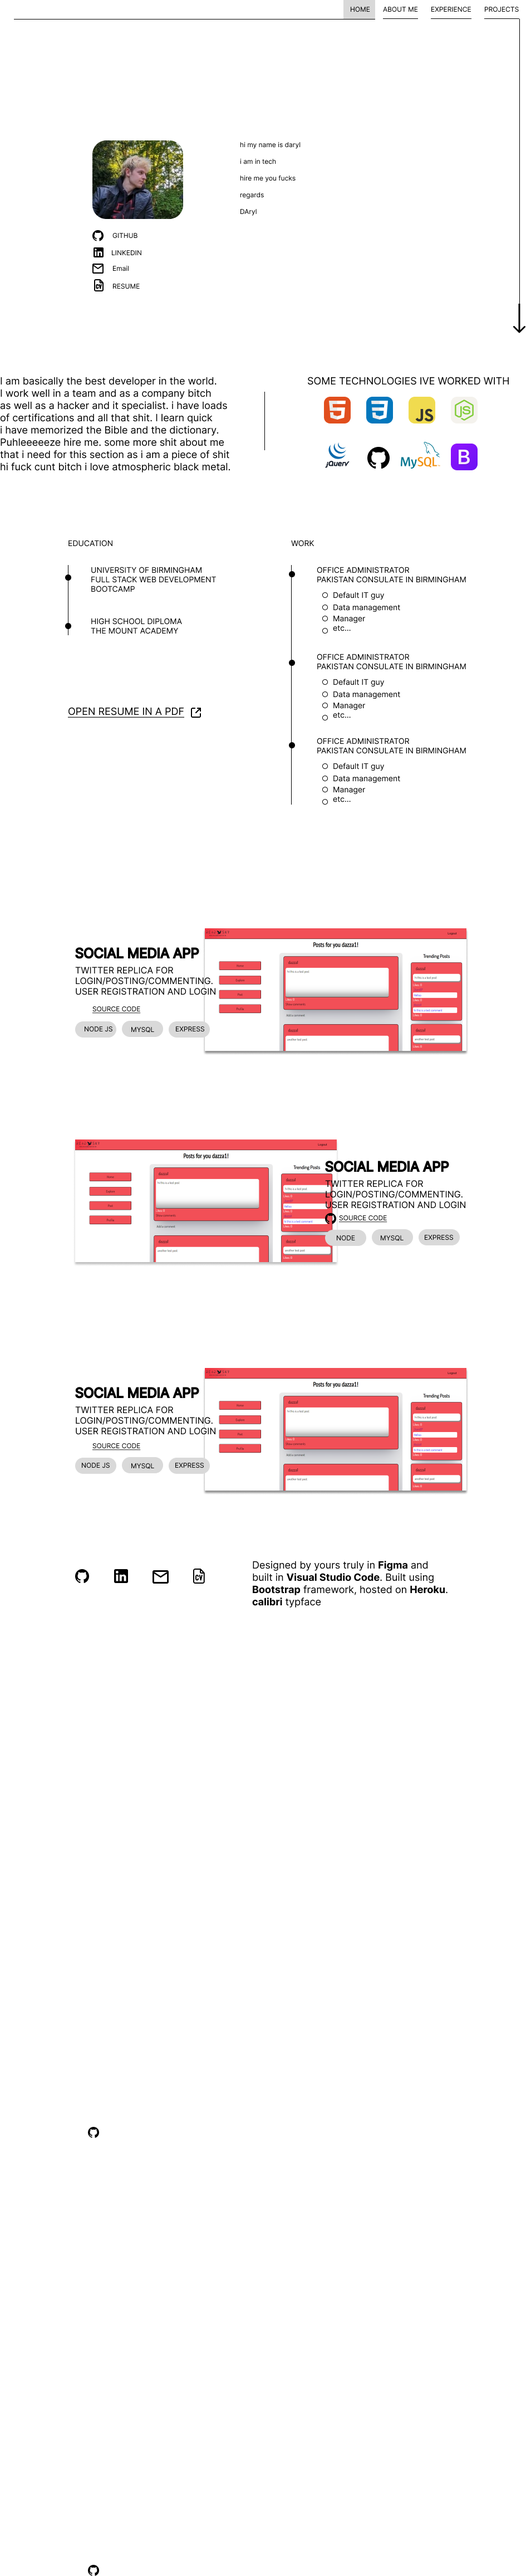
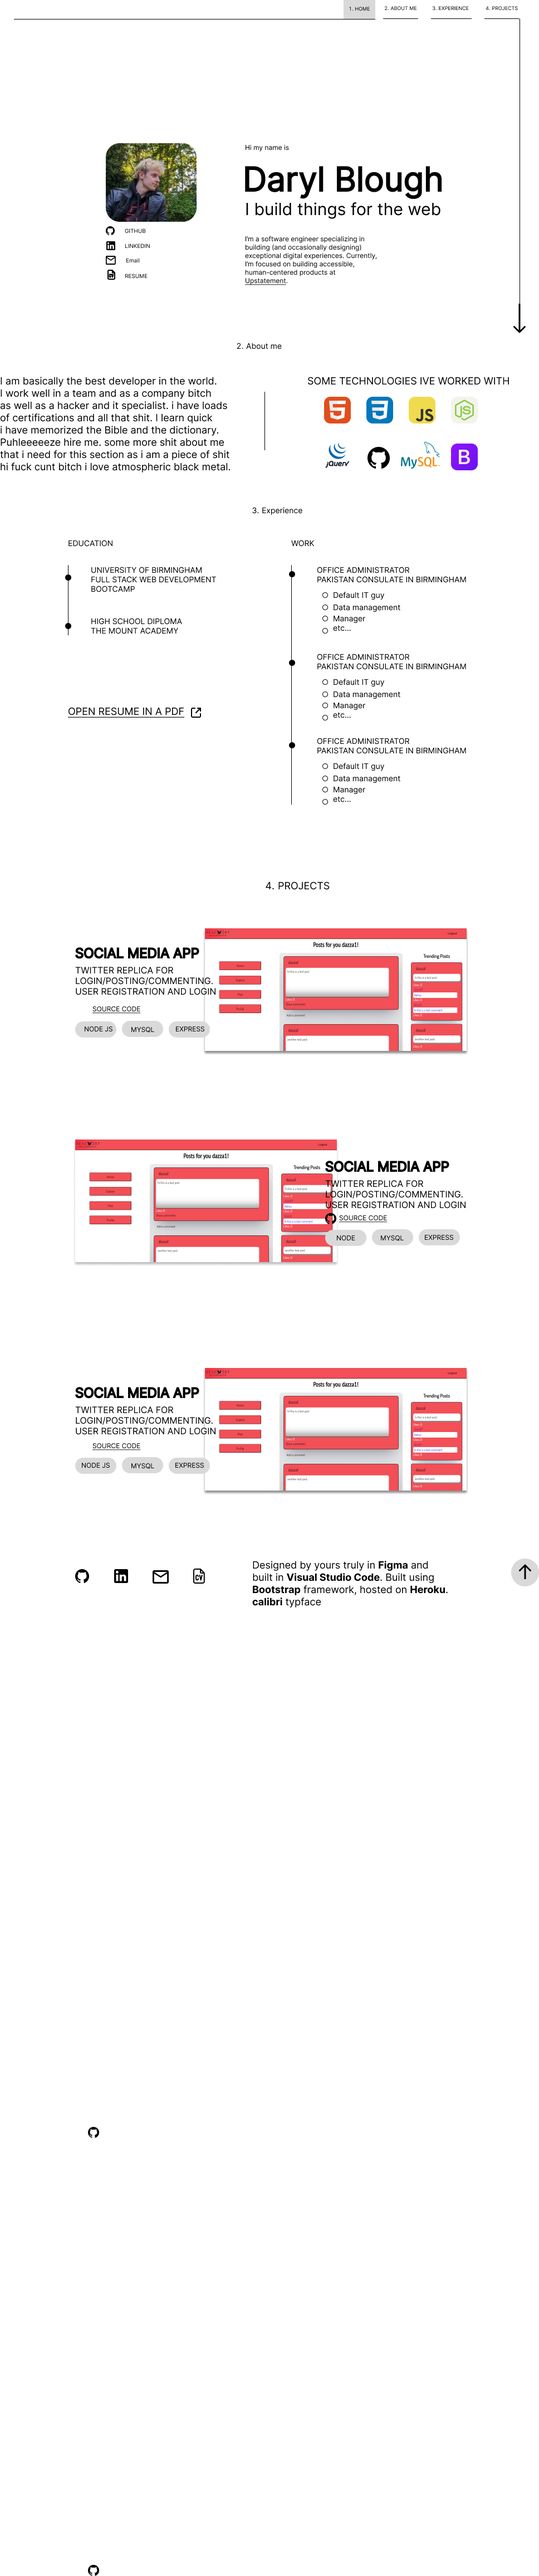
added html layout with bootstrap

diff --git a/index.html b/index.html
@@ -5,10 +5,165 @@
     <meta http-equiv="X-UA-Compatible" content="IE=edge">
     <meta name="viewport" content="width=device-width, initial-scale=1.0">
     <link rel="stylesheet" href="assets/css/style.css">
+    <link href="https://cdn.jsdelivr.net/npm/bootstrap@5.3.0-alpha3/dist/css/bootstrap.min.css" rel="stylesheet" integrity="sha384-KK94CHFLLe+nY2dmCWGMq91rCGa5gtU4mk92HdvYe+M/SXH301p5ILy+dN9+nJOZ" crossorigin="anonymous">
+    <link rel="stylesheet" href="https://cdnjs.cloudflare.com/ajax/libs/font-awesome/4.7.0/css/font-awesome.min.css">
     <title>Document</title>
 </head>
 <body>
-    <p>hello world</p>
+    <nav class="navbar navbar-expand-lg bg-body-tertiary">
+        <div class="container-fluid">
+          <a class="navbar-brand" href="#">Daryl</a>
+          <button class="navbar-toggler" type="button" data-bs-toggle="collapse" data-bs-target="#navbarSupportedContent" aria-controls="navbarSupportedContent" aria-expanded="false" aria-label="Toggle navigation">
+            <span class="navbar-toggler-icon"></span>
+          </button>
+          <div class="collapse navbar-collapse" id="navbarSupportedContent">
+            <ul class="navbar-nav ms-auto mb-2 mb-lg-0">
+              <li class="nav-item">
+                <a class="nav-link" href="#">01. Home</a>
+              </li>
+              <li class="nav-item">
+                <a class="nav-link" href="#">02. About</a>
+              </li>
+              <li class="nav-item">
+                <a class="nav-link" href="#">03. Experience</a>
+              </li>
+              <li class="nav-item">
+                <a class="nav-link" href="#">04. Projects</a>
+              </li>
+            </ul>
+          </div>
+        </div>
+      </nav>
+      <div class="container">
+        <div class="row home">
+            <div class="col-sm-12 col-md-5 home-1">
+                <div class="home-image">
+                    <img src="assets/images/profile.jpeg" alt="">
+                </div>
+                <ul class="home-icons-ul list-group">
+                    <a class="list-group-item" href=""><i class="fa fa-github" aria-hidden="true"></i>Github</a>
+                    <a class="list-group-item" href=""><i class="fa fa-linkedin-square" aria-hidden="true"></i>Linkedin</a>
+                    <a class="list-group-item" href=""><i class="fa fa-envelope" aria-hidden="true"></i>Email</a>
+                    <a class="list-group-item" href=""><i class="fa fa-file-text" aria-hidden="true"></i>Resume</a>
+                </ul>
+            </div>
+            <div class="col-sm-12 col-md-7 home-2">
+                <h6>Hi my name is</h6>
+                <h1>Daryl Blough</h1>
+                <h3>I build stuff for the web</h3>
+                <h6>
+                    I’m a software engineer specializing in building 
+                    (and occasionally designing) exceptional digital 
+                    experiences. Currently, I’m focused on building 
+                    accessible, human-centered products at Upstatement.
+                </h6>
+            </div>
+        </div>
+        <div class="row">
+            <div class="col-12 text-center">
+                <h3>02. About</h3>
+            </div>
+            <div class="col-12 col-md-6">
+                <p>
+                    I am basically the best developer in the world.
+                    I work well in a team and as a company bitch
+                    as well as a hacker and it specialist. i have loads 
+                    of certifications and all that shit. I learn quick
+                    i have memorized the Bible and the dictionary.
+                    Puhleeeeeze hire me. some more shit about me
+                    that i need for this section as i am a piece of shit 
+                    hi fuck cunt bitch i love atmospheric black metal.
+                </p>
+            </div>
+            <div class="col-12 col-md-6">
+                <div class="row text-center">
+                    <h5>Some technologies I am familiar with</h5>
+                </div>
+                <div class="row text-center">
+                    <div class="col-3">js</div>
+                    <div class="col-3">css</div>
+                    <div class="col-3">node</div>
+                    <div class="col-3">mysql</div>
+                </div>
+                <div class="row text-center">
+                    <div class="col-3">bootstrap</div>
+                    <div class="col-3">jquery</div>
+                    <div class="col-3">github</div>
+                    <div class="col-3">html</div>
+                </div>
+            </div>
+        </div>
+        <div class="row">
+            <div class="col-12 text-center">
+                <h3>03. Experience</h3>
+            </div>
+            <div class="col-12 col-md-6">
+                <ul class="list-group">
+                    <li class="list-group-item">UOB Bootcamp</li>
+                    <li class="list-group-item">The Mount Academy</li>
+                </ul>
+            </div>
+            <div class="col-12 col-md-6">
+                <ul class="list-group">
+                    <li class="list-group-item">
+                        <h5>Office Admin</h5>
+                        <h6>Pakistan Consulate</h6>
+                        <p>
+                            Office administrator purchasing
+                            it all that good stuff. management
+                            crisis management.
+                        </p>
+                    </li>
+                    <li class="list-group-item">
+                        <h5>Office Admin</h5>
+                        <h6>Pakistan Consulate</h6>
+                        <p>
+                            Office administrator purchasing
+                            it all that good stuff. management
+                            crisis management.
+                        </p>
+                    </li>
+                    <li class="list-group-item">
+                        <h5>Office Admin</h5>
+                        <h6>Pakistan Consulate</h6>
+                        <p>
+                            Office administrator purchasing
+                            it all that good stuff. management
+                            crisis management.
+                        </p>
+                    </li>
+                </ul>
+            </div>
+        </div>
+        <div class="row text-center">
+           <div class="col-12">
+            <h3>04. Projects</h3>
+           </div>
+           <div class="col-12">project 1</div>
+           <div class="col-12">project 2</div> 
+           <div class="col-12">project 3</div> 
+        </div>
+        <div class="row">
+            <div class="col-12 col-md-6">
+                <ul class="list-group list-group-horizontal">
+                    <a class="list-group-item" href=""><i class="fa fa-github" aria-hidden="true"></i></a>
+                    <a class="list-group-item" href=""><i class="fa fa-linkedin-square" aria-hidden="true"></i></a>
+                    <a class="list-group-item" href=""><i class="fa fa-envelope" aria-hidden="true"></i></a>
+                    <a class="list-group-item" href=""><i class="fa fa-file-text" aria-hidden="true"></i></a>
+                </ul>
+            </div>
+            <div class="col-12 col-md-6 order-first order-md-last">
+                <p>
+                    Designed by yours truly in Figma and 
+                    built in Visual Studio Code. Built using 
+                    Bootstrap framework, hosted on Heroku. 
+                    calibri typface
+                </p>
+            </div>
+        </div>
+      </div>
     <script src="assets/js/script.js"></script>
+    <script src="https://cdn.jsdelivr.net/npm/@popperjs/core@2.11.7/dist/umd/popper.min.js" integrity="sha384-zYPOMqeu1DAVkHiLqWBUTcbYfZ8osu1Nd6Z89ify25QV9guujx43ITvfi12/QExE" crossorigin="anonymous"></script>
+<script src="https://cdn.jsdelivr.net/npm/bootstrap@5.3.0-alpha3/dist/js/bootstrap.min.js" integrity="sha384-Y4oOpwW3duJdCWv5ly8SCFYWqFDsfob/3GkgExXKV4idmbt98QcxXYs9UoXAB7BZ" crossorigin="anonymous"></script>
 </body>
 </html>

diff --git a/assets/css/style.css b/assets/css/style.css
@@ -1,3 +1,24 @@
-p {
-    color: blue;
+* {
+    outline: 1px solid limegreen;
+}
+
+@media screen  and (max-width: 768px) {
+    .home {
+        height: 95vh !important;
+    }
+}
+
+
+@media screen  and (min-width: 768px) {
+    .home-1,
+    .home-2 {
+        height: 85vh !important;
+    }
+}
+
+@media screen and (max-width: 768px) {
+    .home-image,
+    .home-icons-ul {
+        display: inline-block !important;
+    }
 }
